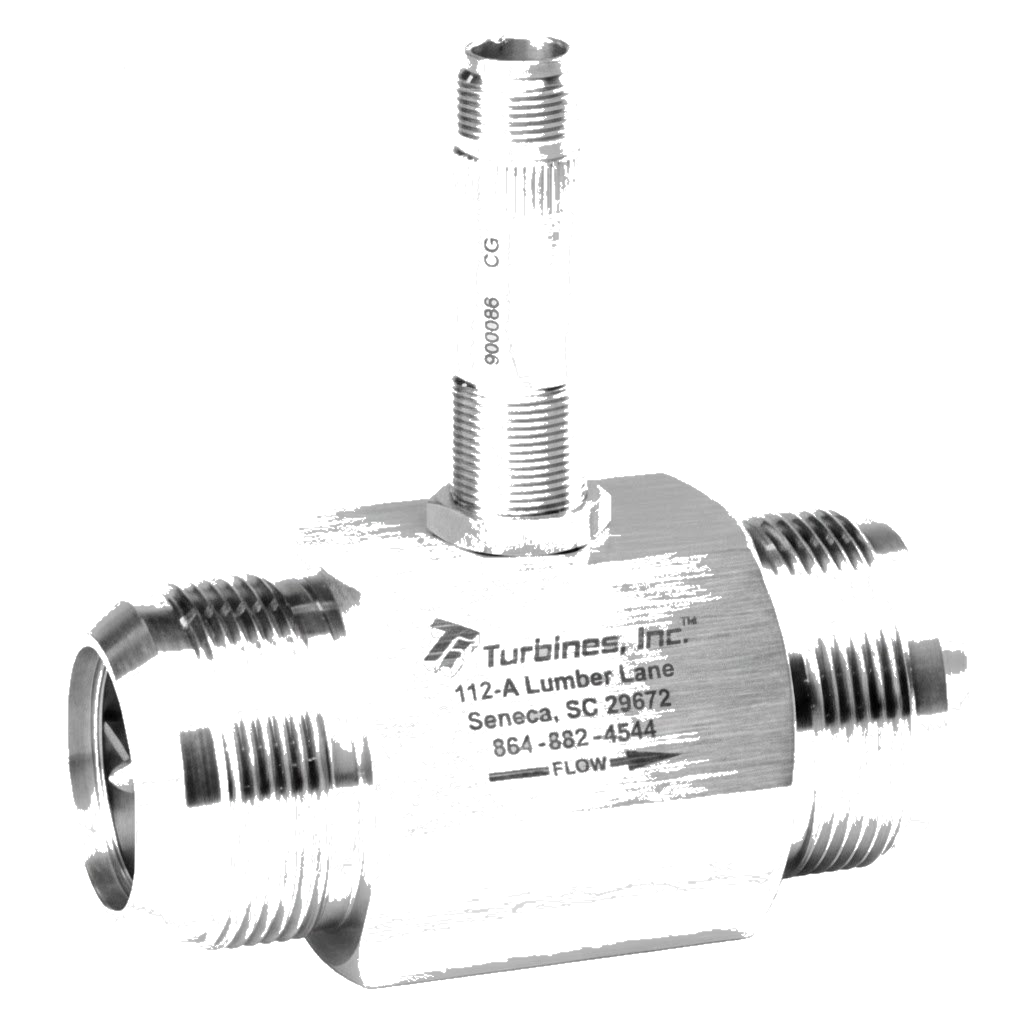
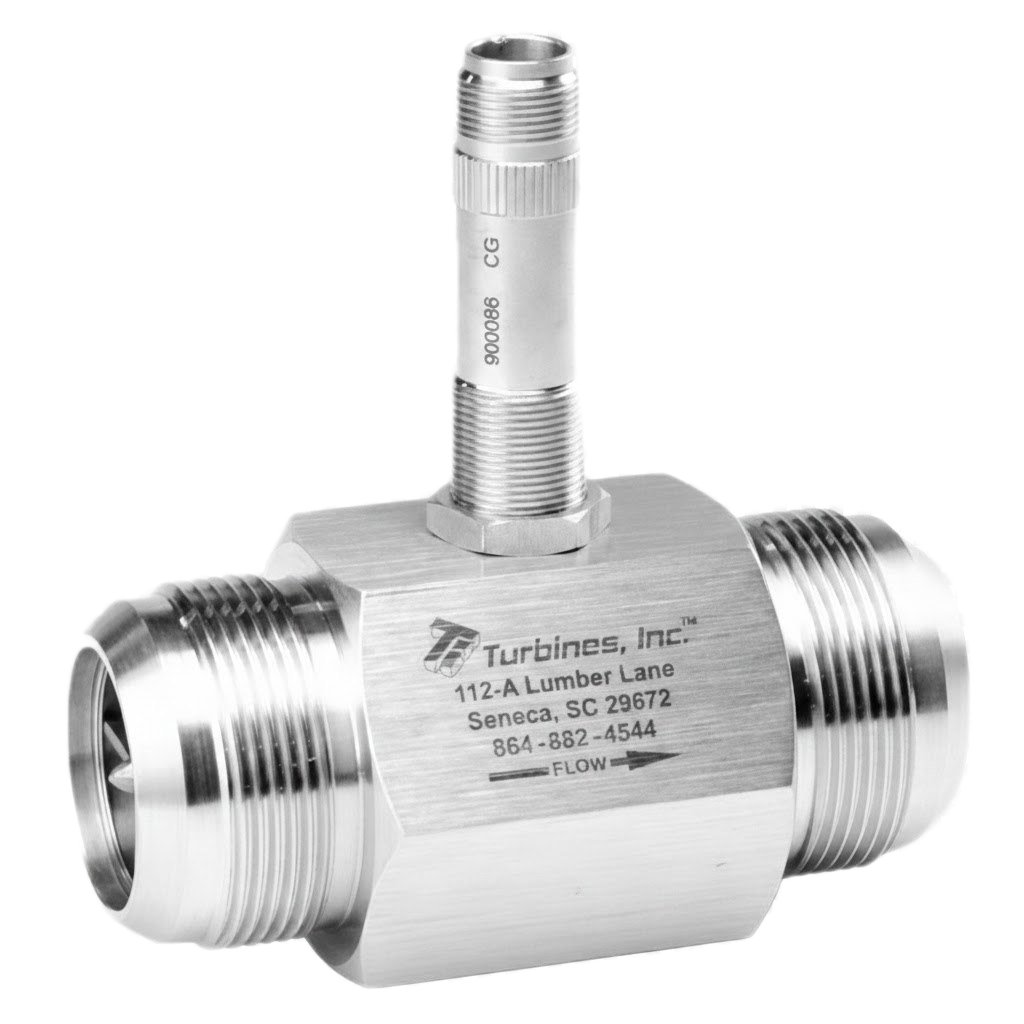
AI background removal via api4ai - clean transparent PNGs

Changed region(s): [[0.0625, 0.0312, 0.9688, 0.9688], [0.125, 0.5625, 0.2188, 0.5938], [0.0938, 0.6562, 0.125, 0.7188]]

diff --git a/koreacryo-prototype/index.html b/koreacryo-prototype/index.html
@@ -2290,17 +2290,17 @@ body.loading { overflow: hidden; }
                 <div class="w-72 h-72 sm:w-[500px] sm:h-96 bg-amber-500/5 rounded-full blur-3xl"></div>
               </div>
               <!-- TMC Meter -->
-              <div class="relative text-center"><div class="bg-white/95 rounded-2xl p-4 shadow-lg shadow-amber-500/10 inline-block">
-                <img src="ti-tmc-meter.jpg" alt="TMC Cryogenic Flow Meter" class="w-40 sm:w-52 rounded-2xl hover:scale-105 transition-transform duration-700">
-                </div><p class="text-amber-400/80 text-xs mt-4 font-bold tracking-wider">TMC Series</p>
+              <div class="relative text-center">
+                <img src="ti-tmc-meter.png" alt="TMC Cryogenic Flow Meter" class="w-40 sm:w-52 drop-shadow-2xl hover:scale-105 transition-transform duration-700" style="filter: drop-shadow(0 20px 40px rgba(245, 158, 11, 0.15));">
+                <p class="text-amber-400/80 text-xs mt-4 font-bold tracking-wider">TMC Series</p>
                 <p class="text-cryo-500 text-[10px]" data-ko="극저온 터빈 유량계" data-en="Cryogenic Turbine Meter">극저온 터빈 유량계</p>
               </div>
               <!-- Plus sign -->
               <div class="text-amber-400/40 text-3xl font-thin">+</div>
               <!-- CDS1000 Monitor -->
-              <div class="relative text-center"><div class="bg-white/95 rounded-2xl p-4 shadow-lg shadow-amber-500/10 inline-block">
-                <img src="ti-cds1000.jpg" alt="CDS1000 Flow Monitor" class="w-40 sm:w-52 rounded-2xl hover:scale-105 transition-transform duration-700">
-                </div><p class="text-amber-400/80 text-xs mt-4 font-bold tracking-wider">CDS1000</p>
+              <div class="relative text-center">
+                <img src="ti-cds1000.png" alt="CDS1000 Flow Monitor" class="w-40 sm:w-52 drop-shadow-2xl hover:scale-105 transition-transform duration-700" style="filter: drop-shadow(0 20px 40px rgba(245, 158, 11, 0.15));">
+                <p class="text-amber-400/80 text-xs mt-4 font-bold tracking-wider">CDS1000</p>
                 <p class="text-cryo-500 text-[10px]" data-ko="유량 모니터·토탈라이저" data-en="Flow Monitor & Totalizer">유량 모니터·토탈라이저</p>
               </div>
             </div>
